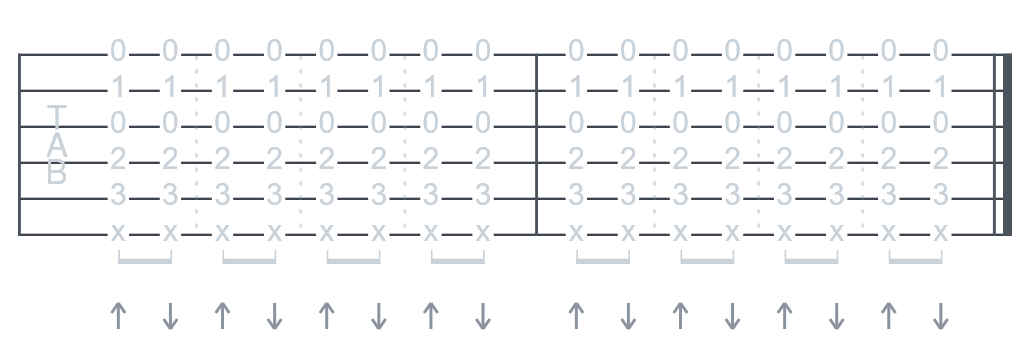
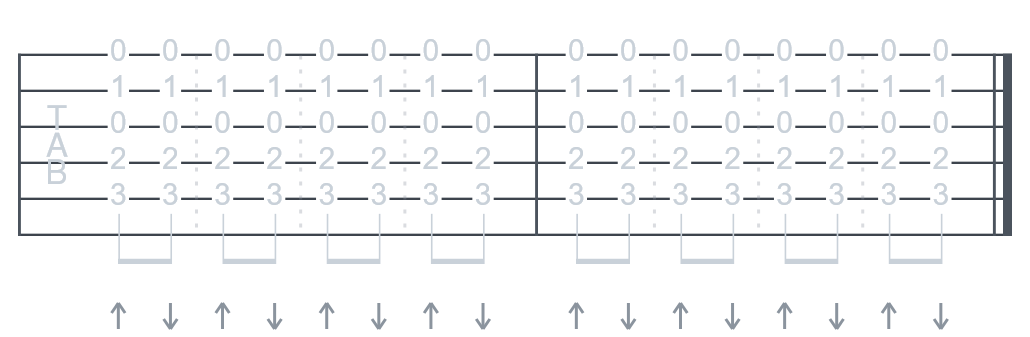
fix(tab): 六线谱里不弹的弦留空，x 只表示切音/闷音；扫弦区加图例

diff --git a/packages/core/src/tab.ts b/packages/core/src/tab.ts
@@ -29,15 +29,8 @@ export interface TabNote {
   bend?: number;
   /** 扫弦方向（画在谱子下方）。 */
   arrow?: "D" | "U";
-  /** 右手切音：箭头上面加一个点（视频板书就是这么标的）。 */
+  /** 右手切音：这一下是闷音，谱面上画成 `x`（不发声）。 */
   muted?: boolean;
-  /**
-   * 这根弦不参与这一下：谱面上画 `x`（不发声）。
-   *
-   * 和弦扫弦时用得着——`C` 是 `x32010`，第 6 弦不弹，
-   * 只画五根弦的话谱面看起来像「少了一根弦」，把 x 标出来才是完整的六线谱。
-   */
-  ghost?: boolean;
 }
 
 export interface Tab {
@@ -76,7 +69,6 @@ export interface TabEvent {
 export function tabEvents(tab: Tab, bpm = 80): TabEvent[] {
   const secondsPerBeat = 60 / Math.max(20, bpm);
   return tab.notes
-    .filter((note) => !note.ghost)
     .map((note) => ({
       midi: STANDARD_TUNING.strings[note.s - 1] + note.f,
       string: note.s,
@@ -311,11 +303,9 @@ export function strumTab(opts: {
       const dur = hit.dur ?? (next ? next.at - hit.at : beatsPerBar - hit.at);
       const beat = bar * beatsPerBar + hit.at;
       frets.forEach((fret, stringIndex) => {
-        // 空着的弦也要占位画 x：不然六线谱上会缺一根弦，看着像没画全。
-        if (fret < 0) {
-          notes.push(n(6 - stringIndex, 0, beat, dur, { arrow: hit.dir, ghost: true }));
-          return;
-        }
+        // 不弹的弦（C 和弦的 6 弦）在六线谱里就是留空：那一行什么都不画。
+        // 画成 x 会和「切音 / 闷音」混成一个符号，读谱的人分不出来。
+        if (fret < 0) return;
         notes.push(n(6 - stringIndex, fret, beat, dur, { arrow: hit.dir, muted: hit.muted }));
       });
     });

diff --git a/apps/web/src/pages/Rhythm.tsx b/apps/web/src/pages/Rhythm.tsx
@@ -263,13 +263,17 @@ export default function Rhythm() {
       <h3 className="practice-h3">
         扫弦练习
         <span className="practice-h3-hint">
-          整理自《节奏与节拍》{READING_SOURCE} 的 24 条扫弦；圆点是右手切音
+          整理自《节奏与节拍》{READING_SOURCE} 的 24 条扫弦
         </span>
       </h3>
       <p className="rhythm-focus">
         板书把方向画在六线谱上（1 弦在最上面），所以谱面上的上箭头是「下扫」——这里已经按
         下 / 上 换算好了。每条都按板上的符干位置读：十六分就画成十六分，前八后十六、十六分四连、
         附点切分都是原样，没有被压成一样的格子。
+      </p>
+      <p className="rhythm-legend">
+        看图：<b>↑</b> 下扫（6 弦 → 1 弦）、<b>↓</b> 上扫（1 弦 → 6 弦）；<b>x</b> 是切音（闷音，
+        整拍按死发「嗒」）；C 和弦第 6 弦不弹，按六线谱惯例<b>留空</b>，不是闷音。
       </p>
       <div className="drill-grid">
         {strums.map((drill) => {

diff --git a/apps/web/src/lib/tab-layout.ts b/apps/web/src/lib/tab-layout.ts
@@ -62,8 +62,7 @@ const MAX_SYSTEM_WIDTH = 460;
 
 /** 六线谱场景。 */
 export function layoutTab(tab: Tab): TabScene {
-  // 空弦上的 x（`ghost`）由 alphaTab 画，自绘这层不算它，免得画出两个 0 来。
-  const { notes, beatsPerBar, bars } = { ...tab, notes: tab.notes.filter((note) => !note.ghost) };
+  const { notes, beatsPerBar, bars } = tab;
   /** 朗读练习只有一条节奏线（画 X），不是六线谱。 */
   const rhythmStyle = tab.display === "rhythm";
   const lineCount = rhythmStyle ? 1 : 6;

diff --git a/packages/core/src/alphatex.ts b/packages/core/src/alphatex.ts
@@ -120,7 +120,7 @@ export function onsetsOf(notes: TabNote[]): Onset[] {
 }
 
 function noteText(note: TabNote, mute: "dead" | "plain"): string {
-  if (note.ghost) return `x.${note.s}`;
+  // 只有切音/闷音画 x；不弹的弦根本不会出现在 notes 里（那是留空）。
   if (mute === "dead" && note.muted) return `x.${note.s}`;
   return `${note.f}.${note.s}`;
 }

diff --git a/apps/web/src/styles.css b/apps/web/src/styles.css
@@ -1175,6 +1175,16 @@ button, select, input { font: inherit; color: inherit; }
   font-size: 12px;
   color: var(--muted);
 }
+.rhythm-legend {
+  margin: 6px 0 0;
+  font-size: 12px;
+  color: var(--muted);
+  line-height: 1.7;
+}
+.rhythm-legend b {
+  color: var(--fg);
+  font-weight: 600;
+}
 .rhythm-count {
   display: flex;
   flex-wrap: wrap;

diff --git a/apps/web/src/lib/scores-version.ts b/apps/web/src/lib/scores-version.ts
@@ -1,3 +1,3 @@
 // 由 `pnpm --filter @guitar/web run gen:scores` 生成，不要手改。
 // 谱面图片的内容指纹：图片地址带上它，重新生成后浏览器才会重新下载。
-export const SCORES_VERSION = "321e5646";
+export const SCORES_VERSION = "3b4624d6";

diff --git a/docs/ux.md b/docs/ux.md
@@ -481,12 +481,11 @@ C 大调的八个音上（5 弦 3 品 C、4 弦 2 品 E、3 弦 0 品 G、2 弦 
   `core.test.ts` 里有一条测试按小节累加时值，扫弦 24 条、跟读 16 条、时值 10 条全过；
 - **每拍分割线**由工具画进图里（`beatLines: true`）：alphaTab 只画小节线，
   拍线是按 `boundsLookup` 里每拍的 tick 位置算出拍界、再取两侧音符的中点画上去的；
-- 切音点用**死音音头** `x.5`（所有弦都画成 `x`），扫弦方向用 `{bd}` / `{bu}`（下扫 / 上扫）——
+- 切音点用**死音音头** `x.5`（这一拍的弦全画成 `x`，表示闷音），扫弦方向用 `{bd}` / `{bu}`（下扫 / 上扫）——
   alphaTab 把下扫画成向上挑的箭头，因为六线谱 1 弦在上，方向是对的；
-- **和弦里不弹的弦画 `x`**：`C` 是 `x32010`，第 6 弦不弹。只画五根弦的话，六线谱底下那根弦空着，
-  看着像「少画了一根」（用户 2026-11-08 就是这么报的）。所以 `strumTab()` 会给空弦补一个
-  `TabNote.ghost`（品 0、带方向、不发声），`tabToAlphaTex()` 把它翻成 `x.6`，`tabEvents()` 跳过它——
-  谱面完整、试听也不会把第 6 弦当成空弦拨出来；
+- **`x` 只表示闷音/切音，不表示「这根弦不弹」**（v0.21.5 修正）：六线谱里不弹的弦就是**留空**，
+  那个 `x` 是和弦图（`x32010`）的记法，两种符号混用读谱的人分不出来。`C` 和弦第 6 弦因此留空；
+  v0.21.2 曾给空弦补过「占位 x」（`TabNote.ghost`），v0.21.5 已删掉这个字段与相关代码；
 - **扫弦方向、切音、三连音、附点**都在 `tabToAlphaTex()` 里翻译，谱面上的符号是 alphaTab 画的；
 - **谱面的粗细**：alphaTab 的默认比例尺是给整页五线谱用的，直接缩到卡片里会显得笨重，
   所以 `gen-scores.ts` 传了一组参数：`tabFontSize: 15` + `engraving.tabLineSpacing: 18`

diff --git a/docs/versioning.md b/docs/versioning.md
@@ -19,11 +19,12 @@ SemVer：`MAJOR.MINOR.PATCH`
 | `packages/core` | 独立 | 只在自己的 API 变化时动；新增导出算 MINOR |
 | `plugins/dsh-guitar` | 独立 | 同上；插件与产品发版节奏不同，改插件才动 |
 
-当前：产品 `0.21.4`，core `0.16.0`，插件 `0.5.1`（v0.19.0 给 core 加了 `strumTab`（按音位排谱），算 MINOR；
+当前：产品 `0.21.5`，core `0.16.1`，插件 `0.5.1`（v0.19.0 给 core 加了 `strumTab`（按音位排谱），算 MINOR；
 v0.19.6 只是排版与记法，core 不动；v0.20.0 换渲染器、core 只多了一个 `alphatex.ts`（新导出 `tabToAlphaTex` 等），
 按「新增导出算 MINOR」本该升到 0.16.0，但 alphaTex 只是渲染适配层、不属于乐理 API，这次按 PATCH 处理；
-v0.21.2 给 `TabNote` 加了 `ghost`（弦不弹、谱上画 x），属于向下兼容的新字段，core 正式升到 `0.16.0`；
-v0.21.3 只改渲染留白，core 不动；v0.21.4 只改渲染参数与自画箭头，core 不动）。
+v0.21.2 给 `TabNote` 加了 `ghost`（弦不弹、谱上画 x），向下兼容，core 升到 `0.16.0`；
+v0.21.3 只改渲染留白，core 不动；v0.21.4 只改渲染参数与自画箭头，core 不动；
+v0.21.5 删掉 `ghost`（六线谱里不弹的弦应留空），core 回到 `0.16.1`）。
 `tools/tab-score` 是独立发布的包（`@danzw/tab-score`），版本线与产品无关，现在是 `0.5.0`。
 
 ## 一次发版的流程

diff --git a/CHANGELOG.md b/CHANGELOG.md
@@ -9,6 +9,15 @@
 - 和弦与音阶试听（目前音频只有节拍器）
 - 桌面 / 安卓壳（不排期，需先装工具链）
 
+## [0.21.5] - 2026-11-09
+
+### Changed
+- **`x` 只表示闷音/切音，不弹的弦留空**：v0.21.2 给 C 和弦第 6 弦补的「占位 x」（`TabNote.ghost`）
+  在六线谱里是错的——那个 `x` 是和弦图（`x32010`）的记法，六线谱里不弹的弦就该留空，
+  否则同一个符号在一张谱里表示两种意思。`strumTab()` 不再补空弦，`ghost` 字段与
+  `tabToAlphaTex()` / `tabEvents()` / `layoutTab()` 里的相关分支一并删掉，core 升到 `0.16.1`。
+- 扫弦练习区块加一行图例：`↑` 下扫（6 弦 → 1 弦）、`↓` 上扫（1 弦 → 6 弦）、`x` 切音（闷音）。
+
 ## [0.21.4] - 2026-11-08
 
 ### Fixed
